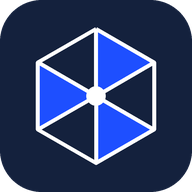
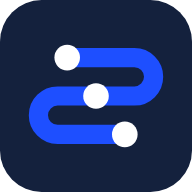
Recruiting: pipeline branding, Calendar tab + reminders, PWA fixes
- Rebrand Recruiting to the pipeline mark (blue pipe + white nodes on
  navy) across favicon and PWA icons; centered the + FAB with an SVG.
- New Calendar tab: appointment field on candidates, auto-prompt when a
  candidate is moved to a "Meeting Set" stage, agenda grouped by day,
  and a Reach Out list (Interested + Stagnant leads) with call/text.
- Browser reminders at 1 day / 1 hour / at time of each appointment,
  plus a daily reach-out nudge (fires while the app is open).
- Fix home-screen revert: give each app its own manifest id/scope and a
  correct start_url (core was "/" so it opened the KPI app).
- Schema: candidates.appt_at.

diff --git a/recruiting/assets/recruiting.js b/recruiting/assets/recruiting.js
@@ -29,6 +29,16 @@
   const nameOf = (id) => (people.find((p) => p.id === id) || {}).name || "—";
   const teamName = (id) => (teams.find((t) => t.id === id) || {}).name || "—";
   const todayKey = () => { const d = new Date(); return `${d.getFullYear()}-${String(d.getMonth() + 1).padStart(2, "0")}-${String(d.getDate()).padStart(2, "0")}`; };
+  const pad2 = (n) => String(n).padStart(2, "0");
+  // datetime-local <-> ISO
+  function toLocalInput(iso) { if (!iso) return ""; const d = new Date(iso); return `${d.getFullYear()}-${pad2(d.getMonth() + 1)}-${pad2(d.getDate())}T${pad2(d.getHours())}:${pad2(d.getMinutes())}`; }
+  function fromLocalInput(v) { return v ? new Date(v).toISOString() : null; }
+  function fmtWhen(iso) { const d = new Date(iso); return d.toLocaleString(undefined, { weekday: "short", month: "short", day: "numeric", hour: "numeric", minute: "2-digit" }); }
+  function fmtTime(iso) { return new Date(iso).toLocaleTimeString(undefined, { hour: "numeric", minute: "2-digit" }); }
+  const isMeetingStage = (st) => st && /meeting set/i.test(st.name);
+  const stageOf = (c) => stages.find((s) => s.id === c.stage_id);
+  const stageNamed = (re) => stages.find((s) => re.test(s.name));
+  const flagNamed = (re) => flags.find((f) => re.test(f.name));
 
   // ── Init / auth ─────────────────────────────────────────────────
   async function init() {
@@ -64,6 +74,7 @@
     people = pplRes.data || [];
     teams = teamRes.data || [];
     if (!stages.length && perms.isAdmin) await seedDefaults();
+    if (NOTIF_OK() && Notification.permission === "granted") startReminderLoop();
   }
 
   async function seedDefaults() {
@@ -129,11 +140,12 @@
   }
 
   function renderApp() {
-    const tabs = [["board", "Board"], ["list", "List"]];
+    const tabs = [["board", "Board"], ["list", "List"], ["calendar", "Calendar"]];
     if (perms.canManageStages) tabs.push(["settings", "Settings"]);
     let body = "";
     if (activeTab === "board") body = renderBoard();
     else if (activeTab === "list") body = renderList();
+    else if (activeTab === "calendar") body = renderCalendar();
     else if (activeTab === "settings") body = renderSettings();
 
     appRoot().innerHTML = `
@@ -143,13 +155,14 @@
       </header>
       <nav class="tabs">${tabs.map(([id, l]) => `<button data-tab="${id}" class="${activeTab === id ? "active" : ""}" type="button">${l}</button>`).join("")}</nav>
       <main class="wrap">${body}</main>
-      ${activeTab !== "settings" ? `<button class="fab" id="addCandidate" type="button" aria-label="Add candidate">+</button>` : ""}`;
+      ${activeTab !== "settings" && activeTab !== "calendar" ? `<button class="fab" id="addCandidate" type="button" aria-label="Add candidate"><svg width="24" height="24" viewBox="0 0 24 24" fill="none" stroke="currentColor" stroke-width="3" stroke-linecap="round"><line x1="12" y1="5" x2="12" y2="19"/><line x1="5" y1="12" x2="19" y2="12"/></svg></button>` : ""}`;
 
     bind("#signOut", "click", async () => { await sb.auth.signOut(); session = null; profile = null; render(); });
     document.querySelectorAll("[data-tab]").forEach((b) => b.addEventListener("click", () => { activeTab = b.dataset.tab; render(); }));
     bind("#addCandidate", "click", () => openCandidateModal(null));
     bindBoardEvents();
     bindListEvents();
+    bindCalendarEvents();
     bindSettingsEvents();
   }
 
@@ -172,6 +185,7 @@
               <div class="meta">
                 <span>${esc(nameOf(c.recruiter_id))}</span>
                 ${c.phone ? `<span>${esc(c.phone)}</span>` : ""}
+                ${c.appt_at ? `<span class="tag appt">📅 ${esc(fmtWhen(c.appt_at))}</span>` : ""}
                 ${overdue(c) ? `<span class="tag due">Due ${esc(c.follow_up_date)}</span>` : c.follow_up_date ? `<span>↺ ${esc(c.follow_up_date)}</span>` : ""}
               </div>
               <select class="move" data-move="${c.id}">${stageOpts(c.stage_id)}</select>
@@ -225,6 +239,8 @@
     c.stage_id = stageId; c.hired = hired; c.updated_at = new Date().toISOString();
     const { error } = await sb.from("candidates").update({ stage_id: stageId, hired, updated_at: c.updated_at }).eq("id", id);
     if (error) alert("Couldn't move: " + error.message);
+    // Moving into a "Meeting Set" stage without a time? Open the card to set one.
+    if (isMeetingStage(stage) && !c.appt_at) { openCandidateModal(id); return; }
     render();
   }
 
@@ -298,6 +314,7 @@
           <label>Recruiter <select id="mRecruiter" ${dis}>${recOpts}</select></label>
           <label>Team <select id="mTeam" ${dis}>${teamOpts}</select></label>
           <label>Follow-up date <input id="mFollow" type="date" value="${esc(c.follow_up_date || "")}" ${dis} /></label>
+          <label>Appointment <input id="mAppt" type="datetime-local" value="${esc(toLocalInput(c.appt_at))}" ${dis} /></label>
         </div>
         <label>Notes <textarea id="mNotes" ${dis}>${esc(c.notes || "")}</textarea></label>
         ${!editable ? `<p class="muted">View only — you don't have permission to edit this candidate.</p>` : ""}
@@ -335,6 +352,7 @@
       recruiter_id: val("#mRecruiter") || profile.id,
       team_id: val("#mTeam") || profile.team_id,
       follow_up_date: val("#mFollow") || null,
+      appt_at: fromLocalInput(val("#mAppt")),
       notes: val("#mNotes").trim(),
       hired: !!(stage && stage.is_final),
       updated_at: new Date().toISOString(),
@@ -361,6 +379,115 @@
     candidates = candidates.filter((c) => c.id !== id);
     closeModal();
     render();
+  }
+
+  // ── Calendar + reminders ────────────────────────────────────────
+  const NOTIF_OK = () => typeof Notification !== "undefined";
+  function notifState() { return NOTIF_OK() ? Notification.permission : "unsupported"; }
+  async function requestNotif() {
+    if (!NOTIF_OK()) { alert("Notifications aren't supported on this browser."); return; }
+    await Notification.requestPermission();
+    startReminderLoop();
+    render();
+  }
+  function fireNotif(title, body) {
+    if (!NOTIF_OK() || Notification.permission !== "granted") return;
+    try { new Notification(title, { body, icon: "icon-192.png" }); } catch (e) { /* ignore */ }
+  }
+  const firedKey = "rec.fired.v1";
+  function firedSet() { try { return new Set(JSON.parse(localStorage.getItem(firedKey) || "[]")); } catch { return new Set(); } }
+  function markFired(k) { const s = firedSet(); s.add(k); localStorage.setItem(firedKey, JSON.stringify([...s].slice(-500))); }
+
+  // The reach-out buckets: Interested-stage candidates + anything tagged Stagnant.
+  function reachOutList() {
+    const interested = stageNamed(/interested/i);
+    const stagnant = flagNamed(/stagnant/i);
+    const seen = new Set();
+    return visibleCandidates().filter((c) => {
+      if (c.hired) return false;
+      const hit = (interested && c.stage_id === interested.id) || (stagnant && c.flag_id === stagnant.id);
+      if (hit && !seen.has(c.id)) { seen.add(c.id); return true; }
+      return false;
+    });
+  }
+  function upcomingAppts() {
+    const now = Date.now();
+    return visibleCandidates().filter((c) => c.appt_at && new Date(c.appt_at).getTime() > now - 3600000)
+      .sort((a, b) => new Date(a.appt_at) - new Date(b.appt_at));
+  }
+
+  let notifTimer = null;
+  function startReminderLoop() { if (notifTimer) return; tick(); notifTimer = setInterval(tick, 60000); }
+  function tick() {
+    if (!profile) return;
+    const now = Date.now();
+    const fired = firedSet();
+    const win = 30 * 60000; // fire within 30 min of the target moment
+    upcomingAppts().forEach((c) => {
+      const t = new Date(c.appt_at).getTime();
+      [["d", 86400000, "tomorrow"], ["h", 3600000, "in 1 hour"], ["t", 0, "now"]].forEach(([k, off, word]) => {
+        const target = t - off;
+        const key = `${c.id}:${k}:${t}`;
+        if (now >= target && now <= t + win && !fired.has(key)) {
+          fireNotif(`Appointment ${word}: ${c.name}`, `${fmtWhen(c.appt_at)}${c.phone ? " · " + c.phone : ""}`);
+          markFired(key);
+        }
+      });
+    });
+    // Daily reach-out nudge
+    const ro = reachOutList();
+    const dayKey = `reachout:${todayKey()}`;
+    if (ro.length && !fired.has(dayKey) && new Date().getHours() >= 9) {
+      fireNotif(`${ro.length} contact${ro.length === 1 ? "" : "s"} to reach out to`, "Text or call your Interested & Stagnant leads today.");
+      markFired(dayKey);
+    }
+  }
+
+  function renderCalendar() {
+    const perm = notifState();
+    const appts = upcomingAppts();
+    const byDay = {};
+    appts.forEach((c) => { const d = new Date(c.appt_at); const k = `${d.getFullYear()}-${pad2(d.getMonth() + 1)}-${pad2(d.getDate())}`; (byDay[k] = byDay[k] || []).push(c); });
+    const dayLabel = (k) => { const d = new Date(k + "T12:00:00"); const t = todayKey(); if (k === t) return "Today"; return d.toLocaleDateString(undefined, { weekday: "long", month: "short", day: "numeric" }); };
+    const ro = reachOutList();
+
+    return `
+      ${perm !== "granted" ? `
+        <section class="card">
+          <div class="section-title"><h2>Reminders</h2></div>
+          <p class="muted" style="margin:6px 0 10px">Turn on notifications to get reminded <b>1 day</b>, <b>1 hour</b>, and <b>at the time</b> of each appointment, plus a daily nudge to reach out to your Interested & Stagnant leads.</p>
+          <button class="blue" id="enableNotif" type="button">${perm === "unsupported" ? "Notifications unavailable" : "Enable reminders"}</button>
+        </section>` : `<section class="card"><div class="row-inline"><span class="tag final">🔔 Reminders on</span><span class="muted">1 day · 1 hour · at time of each appointment</span></div></section>`}
+
+      <section class="card">
+        <div class="section-title"><h2>Upcoming Appointments</h2><span>${appts.length}</span></div>
+        ${Object.keys(byDay).length ? Object.entries(byDay).map(([k, list]) => `
+          <div style="margin-top:8px"><b style="font-size:13px">${esc(dayLabel(k))}</b></div>
+          ${list.map((c) => `
+            <div class="list-row" data-open="${c.id}">
+              <div class="top"><strong>${esc(c.name)}</strong><span class="tag appt">${esc(fmtTime(c.appt_at))}</span></div>
+              <div class="meta muted">${esc((stageOf(c) || {}).name || "")}${c.phone ? " · " + esc(c.phone) : ""} · ${esc(nameOf(c.recruiter_id))}</div>
+            </div>`).join("")}
+        `).join("") : `<p class="empty">No appointments scheduled. Move a candidate to a "Meeting Set" stage to add one.</p>`}
+      </section>
+
+      <section class="card">
+        <div class="section-title"><h2>Reach Out</h2><span>${ro.length}</span></div>
+        <p class="muted" style="margin:2px 0 8px">Interested & Stagnant leads to text or call.</p>
+        ${ro.length ? ro.map((c) => `
+          <div class="list-row">
+            <div class="top"><strong>${esc(c.name)}</strong><span class="pill">${esc((stageOf(c) || {}).name || "")}${c.flag_id ? " · " + esc((flags.find((f) => f.id === c.flag_id) || {}).name || "") : ""}</span></div>
+            <div class="row-inline" style="margin-top:4px">
+              ${c.phone ? `<a class="tiny secondary" style="text-decoration:none;padding:5px 10px;border-radius:8px" href="tel:${esc(c.phone)}">Call</a><a class="tiny secondary" style="text-decoration:none;padding:5px 10px;border-radius:8px" href="sms:${esc(c.phone)}">Text</a>` : `<span class="muted">No phone on file</span>`}
+              <button class="tiny secondary" data-open="${c.id}" type="button">Open</button>
+            </div>
+          </div>`).join("") : `<p class="empty">No one to reach out to right now.</p>`}
+      </section>`;
+  }
+  function bindCalendarEvents() {
+    if (activeTab !== "calendar") return;
+    bind("#enableNotif", "click", requestNotif);
+    document.querySelectorAll("[data-open]").forEach((el) => el.addEventListener("click", () => openCandidateModal(el.dataset.open)));
   }
 
   // ── Settings: manage stages & flags (admin) ─────────────────────

diff --git a/recruiting/demo.html b/recruiting/demo.html
@@ -22,7 +22,8 @@
           .concat(F.map((name, i) => ({ id: "f" + i, name, kind: "flag", position: i + 1, is_final: false })));
         const candidates = [
           { id: "c1", name: "Jordan Blake", phone: "[phone redacted]", email: "[email redacted]", source: "referral", stage_id: "s0", flag_id: null, recruiter_id: ME, team_id: "t1", owner_id: ME, follow_up_date: "2026-07-20", hired: false, notes: "Met at gym", created_at: "2026-07-10T10:00:00Z" },
-          { id: "c2", name: "Priya Shah", phone: "[phone redacted]", email: "[email redacted]", source: "event", stage_id: "s2", flag_id: "f2", recruiter_id: "u1", team_id: "t1", owner_id: "u1", follow_up_date: "2026-07-12", hired: false, notes: "Wants evening meeting", created_at: "2026-07-08T10:00:00Z" },
+          { id: "c2", name: "Priya Shah", phone: "[phone redacted]", email: "[email redacted]", source: "event", stage_id: "s2", flag_id: "f2", recruiter_id: "u1", team_id: "t1", owner_id: "u1", follow_up_date: "2026-07-12", appt_at: new Date(Date.now() + 3 * [phone redacted]).toISOString(), hired: false, notes: "Wants evening meeting", created_at: "2026-07-08T10:00:00Z" },
+          { id: "c5", name: "Alex Rivera", phone: "[phone redacted]", email: "[email redacted]", source: "referral", stage_id: "s4", flag_id: null, recruiter_id: "u-admin", team_id: "t1", owner_id: "u-admin", follow_up_date: "", appt_at: new Date(Date.now() + 26 * [phone redacted]).toISOString(), hired: false, notes: "", created_at: "2026-07-09T10:00:00Z" },
           { id: "c3", name: "Chris Dunn", phone: "[phone redacted]", email: "[email redacted]", source: "cold", stage_id: "s6", flag_id: null, recruiter_id: ME, team_id: "t1", owner_id: ME, follow_up_date: "", hired: false, notes: "", created_at: "2026-07-05T10:00:00Z" },
           { id: "c4", name: "Noah Kim", phone: "[phone redacted]", email: "[email redacted]", source: "referral", stage_id: "s8", flag_id: null, recruiter_id: "u2", team_id: "t2", owner_id: "u2", follow_up_date: "", hired: true, notes: "Starts Monday", created_at: "2026-07-01T10:00:00Z" },
         ];

diff --git a/recruiting/assets/recruiting.css b/recruiting/assets/recruiting.css
@@ -129,6 +129,8 @@ main.wrap { padding: 16px 14px 60px; display: grid; gap: 14px; }
 .tag.flag { background: rgba(217, 154, 27, 0.14); color: #a9760a; border: 1px solid rgba(217,154,27,0.35); }
 .tag.due { background: rgba(229, 72, 77, 0.12); color: var(--danger); }
 .tag.final { background: rgba(31, 157, 85, 0.14); color: var(--good); }
+.tag.appt { background: rgba(30, 79, 255, 0.1); color: var(--blue); border: 1px solid rgba(30,79,255,0.28); }
+.fab svg { display: block; }
 
 /* list view */
 .card { background: var(--panel); border: 1px solid var(--line); border-radius: 16px; padding: 16px; box-shadow: var(--shadow); }